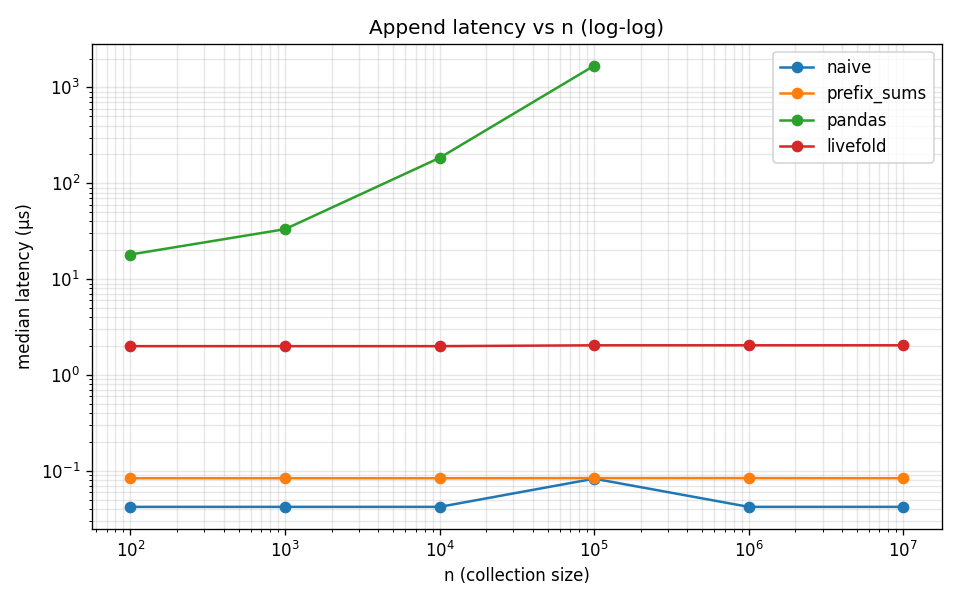
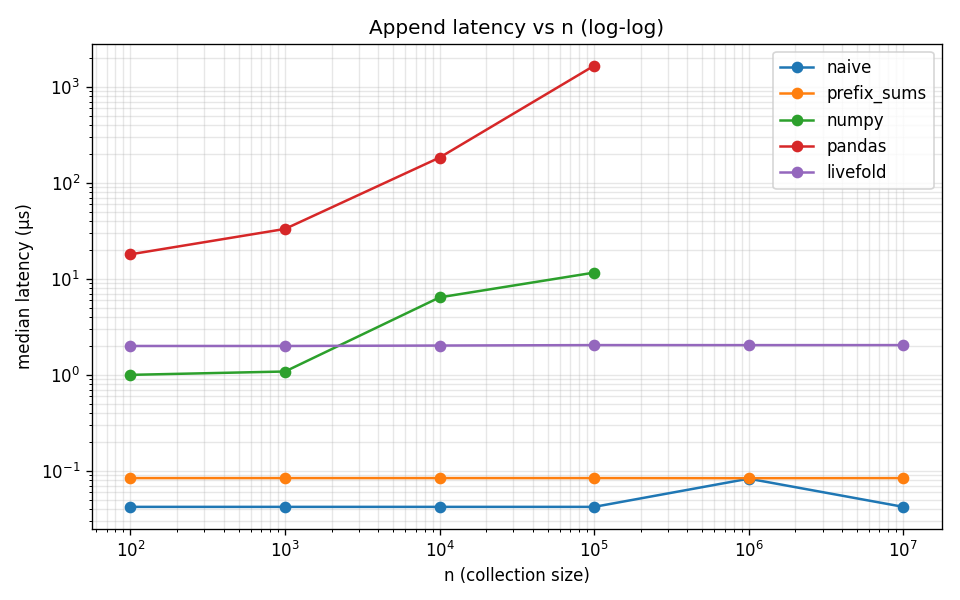
bench: add numpy backend
The most likely "why didn't you compare X?" complaint, addressed
proactively. numpy is competitive on queries thanks to vectorized C
reductions but still loses to livefold by ~11x at n=10M because every
query does an O(n) full scan; livefold's √n algorithm only touches
~3,162 elements at that size.

On appends, numpy uses np.append (O(n) rebuild) — same shape as pandas
with smaller constants. Capped at n=100,000 for symmetry.

Headline at n=10M:
- numpy query:    784 µs   (best non-livefold)
- livefold query:  68 µs

Renamed PANDAS_CAP_N → APPEND_CAP_N + APPEND_CAPPED_BACKENDS set so
we don't need a hardcoded backend name in the runner.

diff --git a/benchmarks/run.py b/benchmarks/run.py
@@ -21,9 +21,9 @@ random.seed(42)
 N_GRID = [10**i for i in range(2, 8)]  # 100, 1k, 10k, 100k, 1M, 10M
 QUERIES = 1000
 APPENDS = 1000
-PANDAS_CAP_N = (
-    100_000  # pandas O(n) per append × 1000 appends gets infeasible above this
-)
+# pandas/numpy O(n) per append × 1000 appends gets infeasible above this
+APPEND_CAP_N = 100_000
+APPEND_CAPPED_BACKENDS = {"pandas", "numpy"}
 
 
 def generate_data(n: int) -> list[float]:
@@ -75,7 +75,7 @@ def run_append_workload() -> dict[str, dict[int, float]]:
     for n in N_GRID:
         data = generate_data(n)
         for B in BACKENDS:
-            if B.name == "pandas" and n > PANDAS_CAP_N:
+            if B.name in APPEND_CAPPED_BACKENDS and n > APPEND_CAP_N:
                 print(f"  n={n:>8,d}  {B.name:>12s}: skipped (cap)")
                 continue
             backend = B(data)
@@ -148,27 +148,31 @@ def write_results(
         "",
         "- `naive` — Python list, full slice + reduction per query",
         "- `prefix_sums` — prefix array for sum; naive scan for max/min",
+        "- `numpy` — `np.ndarray`, rebuilt on append via `np.append` (capped at"
+        " n=100,000 for the append benchmark — O(n) per append)",
         "- `pandas` — `pd.Series`, rebuilt on append (capped at n=100,000 for the"
-        " append benchmark — O(n) per append makes 1M intractable)",
+        " append benchmark — O(n) per append)",
         "- `livefold` — `LiveFold` with `{sum, max, min}` folds",
         "",
         "## Reading these curves",
         "",
         "**Queries:** `livefold` wins above n ≈ 10⁴ and pulls ahead by 2+ orders"
-        " of magnitude at n = 10⁶. Below n ≈ 10³, `naive` and `prefix_sums` win on"
-        " raw constant overhead, but the absolute gap is sub-microsecond. Note that"
-        " `prefix_sums` barely helps once you need max/min — they still scan the"
-        " full range.",
+        " of magnitude at n = 10⁶. `numpy` is competitive on query thanks to"
+        " vectorized C-level reductions but loses to `livefold` at large n because"
+        " every query still does a full scan over the slice. Below n ≈ 10³,"
+        " `naive` and `prefix_sums` win on raw constant overhead, but the absolute"
+        " gap is sub-microsecond. `prefix_sums` barely helps once you need max/min"
+        " — they still scan the full range.",
         "",
         "**Appends:** `naive` and `prefix_sums` append in single-digit nanoseconds"
         " (essentially free, at the timer's resolution floor). `livefold`'s"
-        " amortized cost is roughly flat at ~2 µs. `pandas` rises linearly because"
-        " each append rebuilds the underlying Series — unusable for streaming"
-        " workloads above n ≈ 10⁴.",
+        " amortized cost is roughly flat at ~2 µs. Both `numpy` and `pandas` rise"
+        " linearly because every append rebuilds the underlying buffer — unusable"
+        " for streaming workloads above n ≈ 10⁴.",
         "",
         "**The takeaway:** `livefold` is the only backend that's competitive on"
         " both axes across all scales. `naive`/`prefix_sums` lose on query latency"
-        " above n ≈ 10⁴; `pandas` loses on append latency above n ≈ 10⁴ as well."
+        " above n ≈ 10⁴; `numpy` and `pandas` lose on append latency above n ≈ 10⁴."
         " If your workload mutates the sequence and queries arbitrary ranges,"
         " `livefold` is the curve that doesn't bend the wrong way.",
         "",

diff --git a/benchmarks/backends.py b/benchmarks/backends.py
@@ -3,6 +3,7 @@ returning a {sum, max, min} dict so the comparison is apples-to-apples."""
 
 from __future__ import annotations
 
+import numpy as np
 import pandas as pd
 
 from livefold import LiveFold
@@ -50,6 +51,28 @@ class PrefixSumBackend:
         }
 
 
+class NumpyBackend:
+    """np.ndarray; appends via np.append (O(n) rebuild — the canonical
+    one-element-at-a-time pattern for users who haven't reached for a
+    geometrically-growing buffer)."""
+
+    name = "numpy"
+
+    def __init__(self, data: list[float]) -> None:
+        self.arr = np.array(data, dtype=float)
+
+    def append(self, value: float) -> None:
+        self.arr = np.append(self.arr, value)
+
+    def query(self, left: int, right: int) -> dict[str, float]:
+        sub = self.arr[left : right + 1]
+        return {
+            "sum": float(sub.sum()),
+            "max": float(sub.max()),
+            "min": float(sub.min()),
+        }
+
+
 class PandasBackend:
     """pd.Series; rebuilt on append, which is the canonical pattern for
     users who want a Series for query ergonomics."""
@@ -86,4 +109,10 @@ class LiveFoldBackend:
         return self.lf.query(left, right)
 
 
-BACKENDS = [NaiveBackend, PrefixSumBackend, PandasBackend, LiveFoldBackend]
+BACKENDS = [
+    NaiveBackend,
+    PrefixSumBackend,
+    NumpyBackend,
+    PandasBackend,
+    LiveFoldBackend,
+]

diff --git a/benchmarks/results.md b/benchmarks/results.md
@@ -8,39 +8,40 @@ Generated by `uv run python -m benchmarks.run`.
 
 - `naive` — Python list, full slice + reduction per query
 - `prefix_sums` — prefix array for sum; naive scan for max/min
-- `pandas` — `pd.Series`, rebuilt on append (capped at n=100,000 for the append benchmark — O(n) per append makes 1M intractable)
+- `numpy` — `np.ndarray`, rebuilt on append via `np.append` (capped at n=100,000 for the append benchmark — O(n) per append)
+- `pandas` — `pd.Series`, rebuilt on append (capped at n=100,000 for the append benchmark — O(n) per append)
 - `livefold` — `LiveFold` with `{sum, max, min}` folds
 
 ## Reading these curves
 
-**Queries:** `livefold` wins above n ≈ 10⁴ and pulls ahead by 2+ orders of magnitude at n = 10⁶. Below n ≈ 10³, `naive` and `prefix_sums` win on raw constant overhead, but the absolute gap is sub-microsecond. Note that `prefix_sums` barely helps once you need max/min — they still scan the full range.
+**Queries:** `livefold` wins above n ≈ 10⁴ and pulls ahead by 2+ orders of magnitude at n = 10⁶. `numpy` is competitive on query thanks to vectorized C-level reductions but loses to `livefold` at large n because every query still does a full scan over the slice. Below n ≈ 10³, `naive` and `prefix_sums` win on raw constant overhead, but the absolute gap is sub-microsecond. `prefix_sums` barely helps once you need max/min — they still scan the full range.
 
-**Appends:** `naive` and `prefix_sums` append in single-digit nanoseconds (essentially free, at the timer's resolution floor). `livefold`'s amortized cost is roughly flat at ~2 µs. `pandas` rises linearly because each append rebuilds the underlying Series — unusable for streaming workloads above n ≈ 10⁴.
+**Appends:** `naive` and `prefix_sums` append in single-digit nanoseconds (essentially free, at the timer's resolution floor). `livefold`'s amortized cost is roughly flat at ~2 µs. Both `numpy` and `pandas` rise linearly because every append rebuilds the underlying buffer — unusable for streaming workloads above n ≈ 10⁴.
 
-**The takeaway:** `livefold` is the only backend that's competitive on both axes across all scales. `naive`/`prefix_sums` lose on query latency above n ≈ 10⁴; `pandas` loses on append latency above n ≈ 10⁴ as well. If your workload mutates the sequence and queries arbitrary ranges, `livefold` is the curve that doesn't bend the wrong way.
+**The takeaway:** `livefold` is the only backend that's competitive on both axes across all scales. `naive`/`prefix_sums` lose on query latency above n ≈ 10⁴; `numpy` and `pandas` lose on append latency above n ≈ 10⁴. If your workload mutates the sequence and queries arbitrary ranges, `livefold` is the curve that doesn't bend the wrong way.
 
 ## Query latency vs n
 
 ![Query latency](plots/query_latency.png)
 
-| n | naive | prefix_sums | pandas | livefold |
-|---|---|---|---|---|
-| 100 | 0.62 µs | 0.58 µs | 20.83 µs | 2.04 µs |
-| 1,000 | 3.19 µs | 2.65 µs | 21.21 µs | 2.75 µs |
-| 10,000 | 26.52 µs | 24.58 µs | 24.17 µs | 4.12 µs |
-| 100,000 | 269.15 µs | 225.83 µs | 45.90 µs | 8.58 µs |
-| 1,000,000 | 2770.02 µs | 2309.04 µs | 220.65 µs | 22.63 µs |
-| 10,000,000 | 29065.23 µs | 25362.92 µs | 2417.15 µs | 68.65 µs |
+| n | naive | prefix_sums | numpy | pandas | livefold |
+|---|---|---|---|---|---|
+| 100 | 0.63 µs | 0.58 µs | 2.13 µs | 20.42 µs | 2.08 µs |
+| 1,000 | 3.02 µs | 2.79 µs | 2.17 µs | 21.25 µs | 2.67 µs |
+| 10,000 | 27.69 µs | 24.98 µs | 2.71 µs | 24.37 µs | 4.12 µs |
+| 100,000 | 250.35 µs | 264.94 µs | 9.19 µs | 44.85 µs | 8.85 µs |
+| 1,000,000 | 3259.19 µs | 2540.04 µs | 69.81 µs | 239.54 µs | 22.65 µs |
+| 10,000,000 | 27443.98 µs | 23701.75 µs | 783.88 µs | 2725.60 µs | 68.12 µs |
 
 ## Append latency vs n
 
 ![Append latency](plots/append_latency.png)
 
-| n | naive | prefix_sums | pandas | livefold |
-|---|---|---|---|---|
-| 100 | 0.04 µs | 0.08 µs | 18.06 µs | 2.00 µs |
-| 1,000 | 0.04 µs | 0.08 µs | 33.21 µs | 2.00 µs |
-| 10,000 | 0.04 µs | 0.08 µs | 184.08 µs | 2.00 µs |
-| 100,000 | 0.08 µs | 0.08 µs | 1684.35 µs | 2.04 µs |
-| 1,000,000 | 0.04 µs | 0.08 µs | — | 2.04 µs |
-| 10,000,000 | 0.04 µs | 0.08 µs | — | 2.04 µs |
+| n | naive | prefix_sums | numpy | pandas | livefold |
+|---|---|---|---|---|---|
+| 100 | 0.04 µs | 0.08 µs | 1.00 µs | 18.02 µs | 2.00 µs |
+| 1,000 | 0.04 µs | 0.08 µs | 1.08 µs | 33.15 µs | 2.00 µs |
+| 10,000 | 0.04 µs | 0.08 µs | 6.42 µs | 183.60 µs | 2.02 µs |
+| 100,000 | 0.04 µs | 0.08 µs | 11.63 µs | 1664.50 µs | 2.04 µs |
+| 1,000,000 | 0.08 µs | 0.08 µs | — | — | 2.04 µs |
+| 10,000,000 | 0.04 µs | 0.08 µs | — | — | 2.04 µs |
